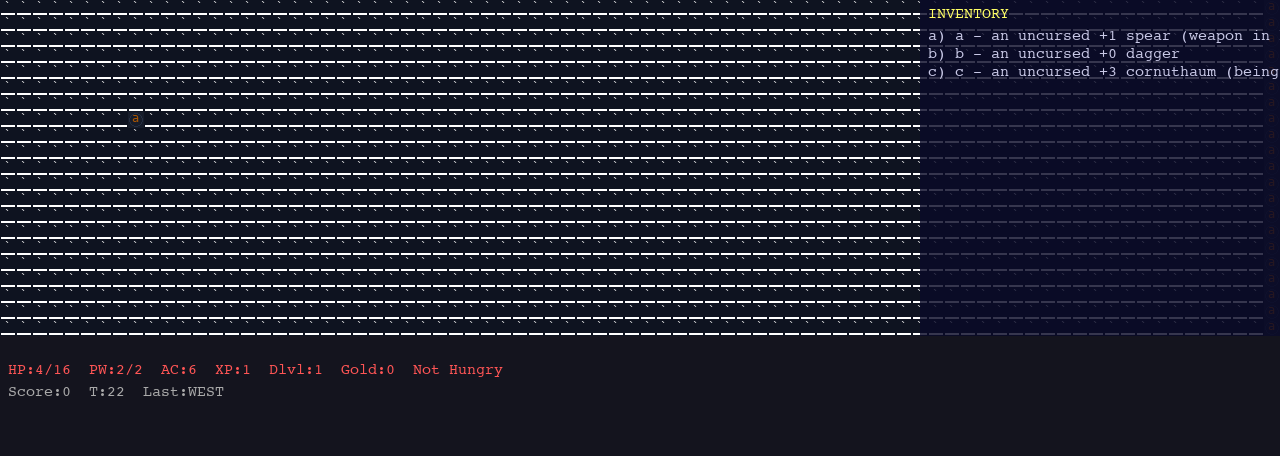
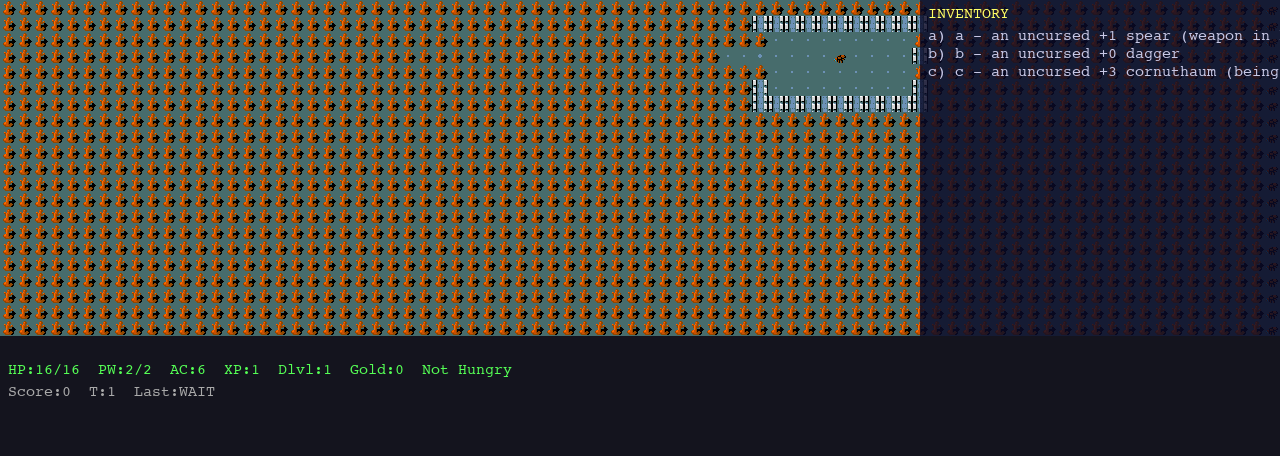
fix: seed FOV mask on env.reset so player sees their starting room
Previously env.reset returned an initial obs with explored=all-False,
so build_glyphs masked the entire map as NO_GLYPH and the player
spawned into an apparently empty world.

Fix: compute_fov on the player's starting tile right after dungeon
generation and OR the result into state.explored[0, 0] before
building the first observation.  Matches NetHack's vendor behavior
(allmain.c::moveloop initializes vision before the first turn).

Also re-renders assets/screenshot.png using the vendor tile atlas
(load_tiles()) so the README sample reflects what the player
actually sees in the Pygame UI.

Verified: 100 tests pass in obs + NLE compat + integration suites.

diff --git a/Nethax/nethax/env.py b/Nethax/nethax/env.py
@@ -83,6 +83,19 @@ class NethaxEnv:
         # Populate level 1 with monsters after dungeon gen.
         state = populate_level_with_monsters(state, rng_monsters, n_monsters=5)
 
+        # Seed the explored mask via FOV so the player can see their starting
+        # room on the very first frame.  Without this the initial obs is all
+        # NO_GLYPH and the UI shows an empty screen.
+        from Nethax.nethax.fov import compute_fov
+        vis = compute_fov(
+            state.terrain[0, 0, :, :],
+            state.player_pos.astype(jnp.int32),
+        )                                                  # bool[MAP_H, MAP_W]
+        new_explored = state.explored.at[0, 0].set(
+            state.explored[0, 0] | vis
+        )
+        state = state.replace(explored=new_explored)
+
         obs = build_nle_observation(state)
         return state, obs
 